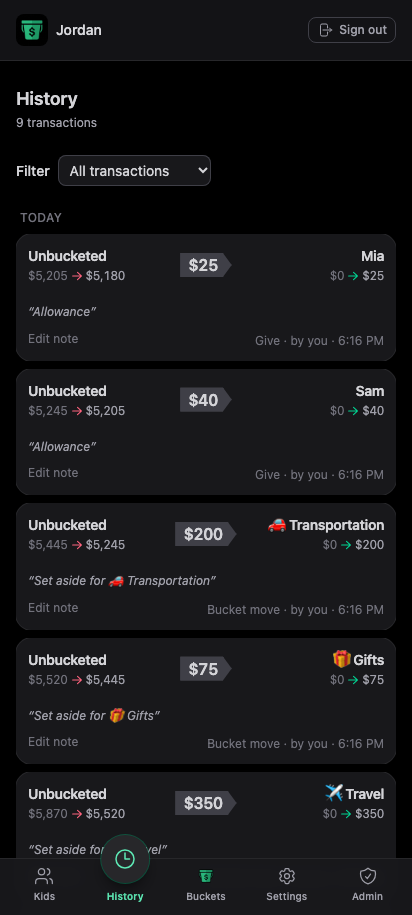
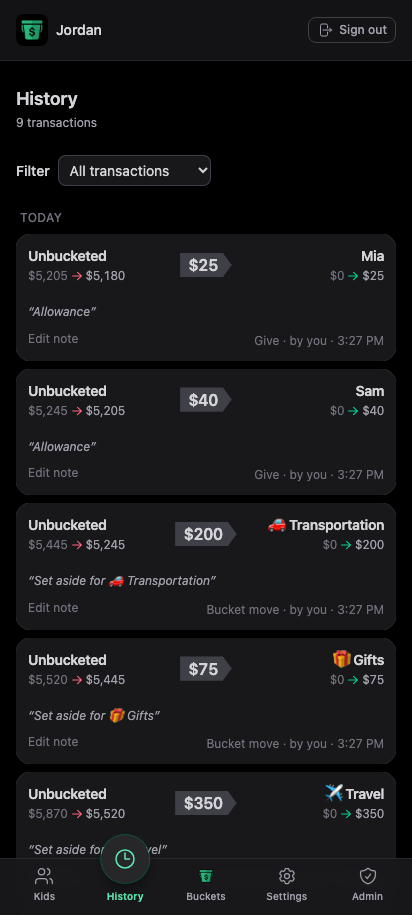
v1.11.1: Calmer Bank tab; provider docs caught up to shipped Plaid (#286)
* v1.11.1: Docs — Plaid is live; connect flow and Link-session lessons

- BANK_PROVIDERS: the connect flow goes straight to Link (the chooser
  sheet appears only for free detached re-adds), and abandoned OAuth
  Link sessions consume trial connections — never open Link without
  finishing it
- AGENTS: Plaid moved from 'reserved' to live-behind-flag

* Calm the Bank tab: institution cards, tappable rows, inline activity

Seven floating rows each with an institution subline and a boxed 'Show
recent activity' CTA read as noise. Now: one card per institution (the
Admin aesthetic), each account is a single tappable row (chevron, name,
owner tag, balance) that expands its recent activity inline. Activity
state survives collapse/expand so reopening doesn't refetch; everything
still resets when leaving the tab. The Show/Hide copy constants are gone
with the button.

* Regenerate README demo GIF + install screenshots against current UI

The organize-money GIF predated several releases of UI drift; the
buckets/kids/rebalance screenshots re-captured pixel-identical.

---------

diff --git a/src/features/accounts/BankAccountsTab.tsx b/src/features/accounts/BankAccountsTab.tsx
@@ -21,11 +21,11 @@ type Props = {
 }
 
 /**
- * The Bank tab body: each visible linked account with a summary header (name +
- * balance + a Shared/kid tag) and its recent activity (loaded on demand, not
- * on tab open). Adults see every family account; a child sees only their own
- * (enforced by RLS + the edge function). Unassigned/household accounts sort
- * first, then accounts assigned to a kid.
+ * The Bank tab body: one card per institution, one tappable row per account
+ * (name + tag + balance; tapping expands recent activity inline). Adults see
+ * every family account; a child sees only their own (enforced by RLS + the
+ * edge functions). Household (unassigned) accounts sort first within a card,
+ * then accounts assigned to a kid.
  */
 export default function BankAccountsTab({
   accounts,
@@ -35,6 +35,9 @@ export default function BankAccountsTab({
   const { formatMoney } = useHideAmounts()
   const [roles, setRoles] = useState<ReadonlyMap<string, string>>(new Map())
   const [names, setNames] = useState<ReadonlyMap<string, string>>(new Map())
+  const [openAccountIds, setOpenAccountIds] = useState<Set<string>>(
+    () => new Set(),
+  )
 
   // Accounts assigned to someone other than the viewer (e.g. a kid). Drives
   // both the member-name lookup and whether to show tags at all — with no such
@@ -47,16 +50,27 @@ export default function BankAccountsTab({
     [accounts, viewerMemberId],
   )
 
-  // Household (unassigned) accounts first, then accounts assigned to a kid.
-  const ordered = useMemo(
-    () =>
-      [...accounts].sort(
-        (a, b) =>
-          Number(Boolean(a.owner_member_id)) -
-          Number(Boolean(b.owner_member_id)),
-      ),
-    [accounts],
-  )
+  // One card per institution; within a card, household accounts first, then
+  // kid-assigned. Institutions keep first-seen order from the account list.
+  const institutionGroups = useMemo(() => {
+    const ordered = [...accounts].sort(
+      (a, b) =>
+        Number(Boolean(a.owner_member_id)) - Number(Boolean(b.owner_member_id)),
+    )
+    const groups = new Map<string, { name: string; accounts: Account[] }>()
+    for (const account of ordered) {
+      const name = account.institution_name ?? 'Bank'
+      const key = name.toLowerCase()
+      const group = groups.get(key)
+      if (group) group.accounts.push(account)
+      else groups.set(key, { name, accounts: [account] })
+    }
+    return [...groups.values()]
+  }, [accounts])
+
+  useEffect(() => {
+    if (!active) setOpenAccountIds(new Set())
+  }, [active])
 
   useEffect(() => {
     if (!hasAssignedAccounts) return
@@ -74,62 +88,105 @@ export default function BankAccountsTab({
     }
   }, [hasAssignedAccounts])
 
+  function toggleAccount(accountId: string) {
+    setOpenAccountIds((prev) => {
+      const next = new Set(prev)
+      if (next.has(accountId)) next.delete(accountId)
+      else next.add(accountId)
+      return next
+    })
+  }
+
   return (
     <div className="space-y-4">
-      {ordered.map((a) => {
-        const tag = bankAccountOwnerTag(a, roles, names, viewerMemberId, {
-          sharedLabel: BANK_ACCOUNT_SHARED_TAG,
-          fallbackName: BANK_ACCOUNT_MEMBER_FALLBACK,
-        })
-        return (
-          <div key={a.id}>
-            <div className="flex items-baseline justify-between gap-3">
-              <div className="min-w-0">
-                <div className="flex items-center gap-2">
-                  <p className="truncate text-sm font-semibold text-zinc-200">
-                    {a.account_name ?? a.institution_name ?? 'Bank account'}
-                  </p>
-                  {/* Tag only when there's a mix to disambiguate; a kid tag always shows. */}
-                  {tag && (tag.kind === 'member' || hasAssignedAccounts) ? (
-                    <span
-                      className={
-                        'shrink-0 rounded-full px-2 py-0.5 text-[10px] font-medium ' +
-                        (tag.kind === 'shared'
-                          ? 'bg-zinc-800 text-zinc-300'
-                          : 'bg-sky-500/15 text-sky-300')
-                      }
-                    >
-                      {tag.label}
+      {institutionGroups.map((group) => (
+        <section
+          key={group.name}
+          aria-label={group.name}
+          className="overflow-hidden rounded-2xl bg-zinc-900 ring-1 ring-zinc-800"
+        >
+          <h3 className="border-b border-zinc-800 px-4 py-2.5 text-xs font-semibold uppercase tracking-wide text-zinc-500">
+            {group.name}
+          </h3>
+          <ul className="divide-y divide-zinc-800/70">
+            {group.accounts.map((a) => {
+              const tag = bankAccountOwnerTag(a, roles, names, viewerMemberId, {
+                sharedLabel: BANK_ACCOUNT_SHARED_TAG,
+                fallbackName: BANK_ACCOUNT_MEMBER_FALLBACK,
+              })
+              const open = openAccountIds.has(a.id)
+              const activityPanelId = `bank-activity-${a.id}`
+              return (
+                <li key={a.id} className="px-4 py-3">
+                  <button
+                    type="button"
+                    onClick={() => toggleAccount(a.id)}
+                    aria-expanded={open}
+                    aria-controls={activityPanelId}
+                    className="flex w-full items-center justify-between gap-3 text-left focus-visible:outline focus-visible:outline-2 focus-visible:outline-emerald-400"
+                  >
+                    <span className="flex min-w-0 items-center gap-2">
+                      <svg
+                        xmlns="http://www.w3.org/2000/svg"
+                        viewBox="0 0 20 20"
+                        fill="currentColor"
+                        aria-hidden="true"
+                        className={
+                          'h-4 w-4 shrink-0 text-zinc-500 motion-safe:transition-transform motion-safe:duration-200 ' +
+                          (open ? 'rotate-180' : '')
+                        }
+                      >
+                        <path
+                          fillRule="evenodd"
+                          d="M5.23 7.21a.75.75 0 0 1 1.06.02L10 11.168l3.71-3.938a.75.75 0 1 1 1.08 1.04l-4.25 4.5a.75.75 0 0 1-1.08 0l-4.25-4.5a.75.75 0 0 1 .02-1.06Z"
+                          clipRule="evenodd"
+                        />
+                      </svg>
+                      <span className="truncate text-sm font-medium text-zinc-200">
+                        {a.account_name ?? 'Bank account'}
+                      </span>
+                      {/* Tag only when there's a mix to disambiguate; a kid
+                          tag always shows. */}
+                      {tag && (tag.kind === 'member' || hasAssignedAccounts) ? (
+                        <span
+                          className={
+                            'shrink-0 rounded-full px-2 py-0.5 text-[10px] font-medium ' +
+                            (tag.kind === 'shared'
+                              ? 'bg-zinc-800 text-zinc-400'
+                              : 'bg-sky-500/15 text-sky-300')
+                          }
+                        >
+                          {tag.label}
+                        </span>
+                      ) : null}
                     </span>
-                  ) : null}
-                </div>
-                {a.institution_name && a.account_name ? (
-                  <p className="truncate text-xs text-zinc-500">
-                    {a.institution_name}
-                  </p>
-                ) : null}
-              </div>
-              {isCreditCardAccount(a) ? (
-                <p className="shrink-0 text-sm font-medium tabular-nums text-rose-300">
-                  {formatMoney(Number(a.current_balance))}{' '}
-                  <span className="text-xs font-normal text-rose-300/70">
-                    {ACCOUNT_CARD_OWED_SUFFIX}
-                  </span>
-                </p>
-              ) : (
-                <p className="shrink-0 text-sm font-medium tabular-nums text-zinc-200">
-                  {formatMoney(Number(a.current_balance))}
-                </p>
-              )}
-            </div>
-            <BankAccountActivity
-              accountId={a.id}
-              source={a.source}
-              panelOpen={active}
-            />
-          </div>
-        )
-      })}
+                    {isCreditCardAccount(a) ? (
+                      <span className="shrink-0 text-sm font-medium tabular-nums text-rose-300">
+                        {formatMoney(Number(a.current_balance))}{' '}
+                        <span className="text-xs font-normal text-rose-300/70">
+                          {ACCOUNT_CARD_OWED_SUFFIX}
+                        </span>
+                      </span>
+                    ) : (
+                      <span className="shrink-0 text-sm font-medium tabular-nums text-zinc-200">
+                        {formatMoney(Number(a.current_balance))}
+                      </span>
+                    )}
+                  </button>
+                  <div id={activityPanelId}>
+                    <BankAccountActivity
+                      accountId={a.id}
+                      source={a.source}
+                      open={open}
+                      panelOpen={active}
+                    />
+                  </div>
+                </li>
+              )
+            })}
+          </ul>
+        </section>
+      ))}
     </div>
   )
 }

diff --git a/src/features/accounts/BankAccountActivity.tsx b/src/features/accounts/BankAccountActivity.tsx
@@ -11,8 +11,6 @@ import {
   BANK_ACTIVITY_RECONNECT_MEMBER,
   BANK_ACTIVITY_RETRY,
   BANK_ACTIVITY_SCOPE,
-  BANK_ACTIVITY_TOGGLE_HIDE,
-  BANK_ACTIVITY_TOGGLE_SHOW,
   LOADING_STATUS_LABEL,
   TELLER_SUNSET_ACTIVITY_NOTE,
 } from '@/lib/brand'
@@ -38,6 +36,8 @@ type Props = {
   accountId: string
   /** accounts.source — picks the provider (or the quiesced-Teller notice). */
   source: string
+  /** Controlled by the parent row (tapping the row toggles activity). */
+  open: boolean
   /** When false, collapse and discard cached rows. */
   panelOpen: boolean
 }
@@ -45,12 +45,12 @@ type Props = {
 export default function BankAccountActivity({
   accountId,
   source,
+  open,
   panelOpen,
 }: Props) {
   const { formatMoney } = useHideAmounts()
   const { member } = useAuth()
   const isAdmin = member?.role === 'admin'
-  const [expanded, setExpanded] = useState(false)
   const [attempted, setAttempted] = useState(false)
   const [rows, setRows] = useState<BankTransactionRow[] | null>(null)
   const [loading, setLoading] = useState(false)
@@ -87,7 +87,6 @@ export default function BankAccountActivity({
 
   useEffect(() => {
     if (!panelOpen) {
-      setExpanded(false)
       setAttempted(false)
       setRows(null)
       setError(null)
@@ -99,13 +98,14 @@ export default function BankAccountActivity({
 
   // Fetch only after the user opens this account's activity — opening the Bank
   // tab must not fire a bank call for every account at once. Quiesced
-  // providers (Teller) never fetch; they render a notice instead.
+  // providers (Teller) never fetch; they render a notice instead. State is
+  // kept across collapse/expand so reopening doesn't refetch.
   useEffect(() => {
     if (!canFetchBankActivity(source)) return
-    if (!expanded || attempted || loading) return
+    if (!open || attempted || loading) return
     setAttempted(true)
     void load()
-  }, [expanded, attempted, loading, load, source])
+  }, [open, attempted, loading, load, source])
 
   function retry() {
     setAttempted(false)
@@ -113,21 +113,16 @@ export default function BankAccountActivity({
     setRows(null)
   }
 
+  if (!open) return null
+
   return (
     <div className="mt-2 rounded-xl bg-zinc-950/50 px-3 py-2 ring-1 ring-inset ring-zinc-800/60">
-      <button
-        type="button"
-        onClick={() => setExpanded((prev) => !prev)}
-        className="text-xs font-semibold text-emerald-400/90 transition hover:text-emerald-300"
-      >
-        {expanded ? BANK_ACTIVITY_TOGGLE_HIDE : BANK_ACTIVITY_TOGGLE_SHOW}
-      </button>
-      {expanded && !canFetchBankActivity(source) ? (
-        <div className="mt-2 space-y-2">
+      {!canFetchBankActivity(source) ? (
+        <div className="space-y-2">
           <p className="text-xs text-zinc-500">{TELLER_SUNSET_ACTIVITY_NOTE}</p>
         </div>
-      ) : expanded ? (
-        <div className="mt-2 space-y-2">
+      ) : (
+        <div className="space-y-2">
           <p className="text-xs text-zinc-500">{BANK_ACTIVITY_SCOPE}</p>
           {loading ? (
             <div
@@ -196,7 +191,7 @@ export default function BankAccountActivity({
             <p className="text-xs text-zinc-500">{BANK_ACTIVITY_EMPTY}</p>
           ) : null}
         </div>
-      ) : null}
+      )}
     </div>
   )
 }

diff --git a/src/lib/brand.ts b/src/lib/brand.ts
@@ -421,8 +421,6 @@ export const ADMIN_LINKED_ACCOUNTS_EMPTY_DETAIL =
 export const BANK_ACCOUNT_SHARED_TAG = 'Shared'
 /** Fallback tag when an assigned member's name is unknown. */
 export const BANK_ACCOUNT_MEMBER_FALLBACK = 'Family member'
-export const BANK_ACTIVITY_TOGGLE_SHOW = 'Show recent activity'
-export const BANK_ACTIVITY_TOGGLE_HIDE = 'Hide recent activity'
 export const BANK_ACTIVITY_SCOPE = 'Last 2 weeks · up to 50 transactions'
 export const BANK_ACTIVITY_RETRY = 'Try again'
 export const BANK_ACTIVITY_EMPTY = 'No bank activity in the last 2 weeks.'

diff --git a/AGENTS.md b/AGENTS.md
@@ -26,16 +26,19 @@ Entry point for AI coding agents (and humans) working in this repo.
    `src/lib/brand.ts`.
 8. **[docs/BANK_PROVIDERS.md](./docs/BANK_PROVIDERS.md)** — **bank providers**:
    SimpleFIN is the active connector (user pays SimpleFIN Bridge directly);
+   Plaid is live behind the `plaid` feature flag (owner's household only —
+   10 lifetime trial Items, protected by detach/update-mode guardrails);
    Teller is quiesced (API withdrawn July 2026 — code/rows stay, balances
-   frozen); Plaid is reserved behind a future `plaid` flag. `accounts` is the
+   frozen). `accounts` is the
    provider-neutral core; per-provider credential tables are service-role
    only; client code goes through `src/lib/bankProviders.ts` dispatch. SQL/TS
    for "linked" is `source <> 'manual'` / `isLinkedAccount()`.
 9. **[docs/FEATURE_FLAGS.md](./docs/FEATURE_FLAGS.md)** — **feature flags**:
    owner-controlled, per-household, read-only in the client. How to add a flag
    (registry in `src/lib/featureFlags.ts`), read one (`useFeatureFlag`), and
-   enable one for a household via Supabase. The `bitcoin` flag is registered but
-   not yet consumed.
+   enable one for a household via Supabase. Live flags: `bitcoin` (Bitcoin
+   tracking) and `plaid` (Plaid connector — also re-checked server-side by the
+   Plaid Edge Functions).
 
 ## Operating principles for this codebase
 

diff --git a/docs/BANK_PROVIDERS.md b/docs/BANK_PROVIDERS.md
@@ -80,8 +80,14 @@ with `isLinkedAccount()` in `src/lib/accounts.ts`.
 - **Item budget rules** (the team's trial tier: 10 lifetime production
   Items; a deleted Item never refunds its slot):
   - A **new link** (link token without an `itemId`) is the ONLY action that
-    can consume a slot. Admin's `PlaidConnectSheet` warns before it and
-    surfaces detached Items so a known bank is re-added for free.
+    can consume a slot. Admin goes straight into Plaid Link; the
+    `PlaidConnectSheet` chooser appears only when detached Items exist, so a
+    known bank is re-added for free instead of re-linked.
+  - **Abandoned Link sessions still count**: for OAuth institutions the
+    connection registers once the bank login completes, even if the user
+    exits before the account-confirmation step. Never open Link without
+    intending to finish it (learned the hard way — two orphaned trial
+    connections).
   - **Unlink detaches locally** (`plaid-disconnect`): accounts rows go, the
     `plaid_items` row and access token stay (`status='detached'`).
     `/item/remove` is never called.
